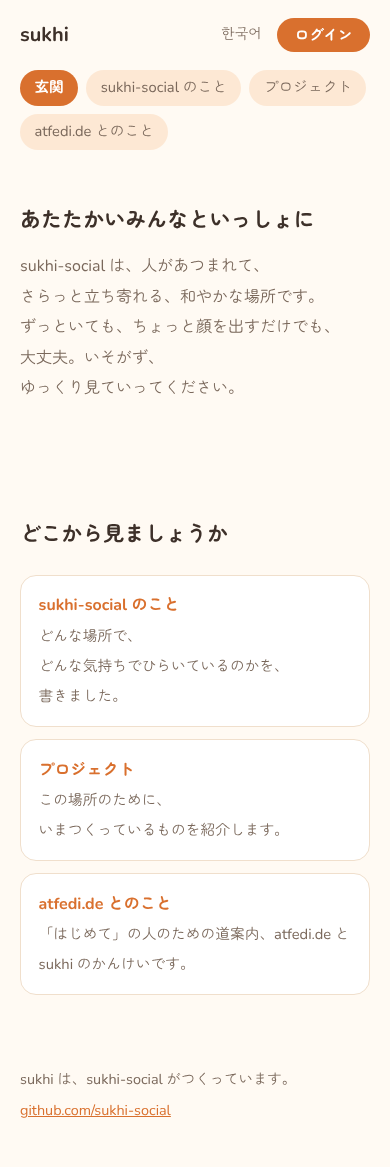
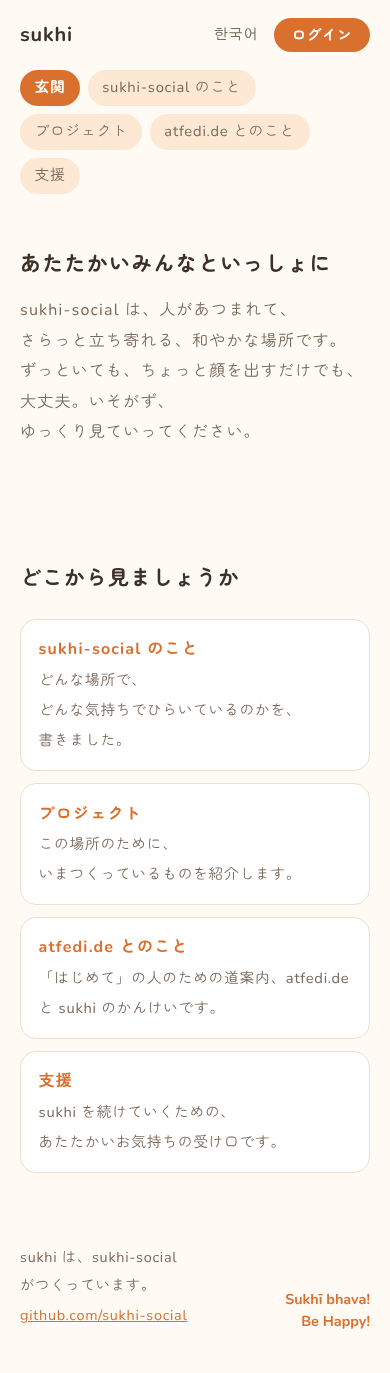
Footer: 'Sukhī bhava! / Be Happy!' at the bottom right of every page
Claude-Session: https://claude.ai/code/session_01EUxHZau6UP3xLAsGqKBsmf

diff --git a/src/styles/about.css b/src/styles/about.css
@@ -58,7 +58,7 @@ h2 { font-size: 1.3rem; margin: 3rem 0 0.75rem; }
 .facts { padding-left: 1.25rem; }
 .facts li { margin-block: 0.25rem; }
 .more { font-weight: 600; }
-footer { padding-block: 3rem 2.5rem; color: var(--muted); font-size: 0.9rem; }
+footer { padding-block: 3rem 2.5rem; color: var(--muted); font-size: 0.9rem; display: flex; justify-content: space-between; align-items: flex-end; gap: 1rem; }
 footer p { margin: 0.2rem 0; }
 
 /* ── pages / tabs ── */
@@ -106,3 +106,6 @@ html:lang(ja) .tabs, html:lang(ja) .cards span, html:lang(ja) .facts, html:lang(
 .lost section:lang(ja) { letter-spacing: 0.075em; }
 .lost section:lang(ko) { letter-spacing: -0.03em; line-height: 1.6; }
 .lost section:lang(ko) h1 { letter-spacing: normal; }
+
+/* 右下のひとこと。英語の祈りなので、字間はそのまま。 */
+footer .blessing { text-align: right; letter-spacing: normal; font-weight: 700; color: var(--accent); line-height: 1.5; margin: 0; flex: none; }

diff --git a/src/layouts/fonts.ts b/src/layouts/fonts.ts
@@ -2,6 +2,9 @@
 // フォントは、ここだけで読み込む(ふつうのページと 404 で共有)。
 import '@fontsource/nunito/latin-400.css';
 import '@fontsource/nunito/latin-700.css';
+// 「Sukhī」の ī は latin-ext にある
+import '@fontsource/nunito/latin-ext-400.css';
+import '@fontsource/nunito/latin-ext-700.css';
 import '@fontsource/zen-maru-gothic/japanese-400.css';
 import '@fontsource/zen-maru-gothic/japanese-700.css';
 import '@fontsource/gothic-a1/korean-400.css';
